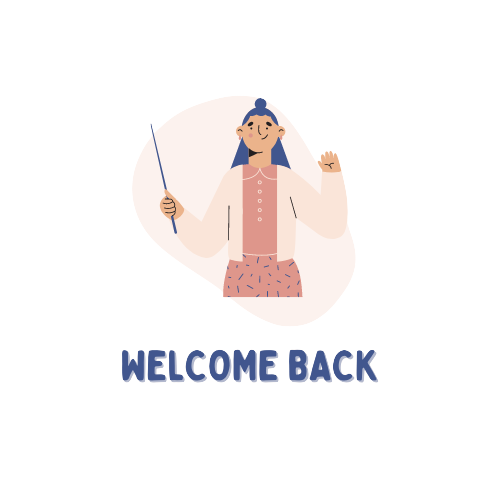
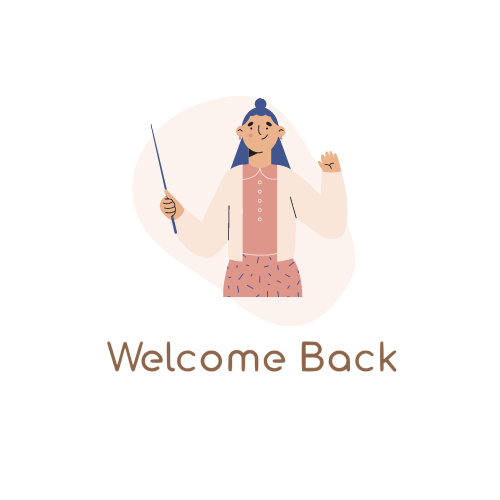
AddedRobotAndStyling

Changed region(s): [[0.21, 0.66, 0.81, 0.78]]

diff --git a/home/static/home/style.css b/home/static/home/style.css
@@ -2,13 +2,15 @@ li a {
   color: green;
 }
 body {
-  background: rgb(46, 141, 128);
+  /* background: rgb(46, 141, 128); */
+  background: #d0b49f;
 }
 
 #header {
   height: 100px;
   width: 100%;
-  background: rgb(5, 107, 208);
+  /* background: rgb(5, 107, 208); */
+  background: #d0b49f;
 }
 
 #footer {
@@ -16,7 +18,8 @@ body {
   bottom: 0;
   width: 100%;
   height: 40px; /* Height of the footer */
-  background: rgba(163, 190, 182, 0.833);
+  /* background: rgba(163, 190, 182, 0.833); */
+  background: #d0b49f;
 }
 
 #footer.comment {
@@ -27,7 +30,8 @@ body {
   background: rgba(44, 11, 128, 0.658);
 }
 .navbar {
-  background-color: rgb(11, 11, 11);
+  /* background-color: rgb(11, 11, 11); */
+  background-color: #523a28;
   position: relative;
   top: 0;
   width: 100%;
@@ -52,7 +56,8 @@ body {
 
 /* Active/current navbar link */
 .active {
-  background-color: rgb(46, 141, 128);
+  /* background-color: rgb(46, 141, 128); */
+  background-color: #d0b49f;
   color: rgb(255, 255, 255);
 }
 
@@ -87,7 +92,7 @@ body {
 .paul {
   font-size: 50px;
   font-family: Arial, sans-serif;
-  color: #333;
+  color: #4b2c2c;
   font-weight: bold;
   margin-top: 20px;
   align-items: center;
@@ -122,5 +127,27 @@ body {
   align-items: center;
   justify-content: center;
   /* padding: 2%; */
+}
 
+.box {
+  font-size: 50px;
+  font-family: Arial, sans-serif;
+  color: #333;
+  font-weight: bold;
+  margin-top: 400px;
+  align-items: center;
+}
+
+.centeringnomargin {
+  display: flex;
+  flex-direction: column;
+  align-items: center;
+  justify-content: center;
+  margin-top: 10px;
+  margin-bottom: -40px;
+}
+
+.white{
+  color:white;
+  /* background-color: red; */
 }

diff --git a/home/templates/home/courses.html b/home/templates/home/courses.html
@@ -5,10 +5,16 @@
 </head>
 <form action='/profile/course/' method="GET">
     {% csrf_token %}
-    <label for="search-input" class="somecss">Course Search:</label>
+    <!-- <label for="search-input" class="somecss">Course Search:</label> -->
+    <div class="centeringnomargin">
+
+        <img src="/static/home/images/Courses.png" 
+          width="400" 
+          height="250">
+      </div>
     <input type="text" class="form-control" id="search-input" name="search-input" placeholder="Search for courses..." required><br><br>
     <div class="row h-5 justify-content-center align-items-center">
-        <button class="btn btn-primary" type="submit">Search</button>
+        <button class="btn btn-primary" type="submit" style="background-color:#523A28" class="white">Search</button>
     </div>
 </form>
 {% if courses %}
@@ -34,7 +40,7 @@
             {% endfor %}
         </table>
         <div class="row h-5 justify-content-center align-items-center">
-            <button class="btn btn-primary" type="submit">Add Selected Courses</button>
+            <button class="btn btn-primary" type="submit" style="background-color:#523A28" class="white">Add Selected Courses</button>
         </div>
     </form>
 {% endif %}

diff --git a/home/templates/home/tutorsearch.html b/home/templates/home/tutorsearch.html
@@ -1,6 +1,12 @@
 {% extends "home/navbar.html" %} {% block page %}
 <form action="/tutorsearch" method="GET" class="containering">
-  <label for="search-input" class="somecss">Tutor Search:</label>
+  <!-- <label for="search-input" class="somecss">Tutor Search:</label> -->
+  <!-- <div class="centeringnomargin"> -->
+
+    <img src="/static/home/images/Search.png" 
+      width="400" 
+      height="200">
+  <!-- </div> -->
 
   <input
     type="text"
@@ -13,7 +19,7 @@
 
   <div class="row h-5 justify-content-center align-items-center">
     <!-- <div class="col-auto"> -->
-    <button class="btn btn-primary" type="submit">Search</button>
+    <button class="btn btn-primary" style="background-color:#523A28" type="submit">Search</button>
 
     <!-- </div> -->
   </div>

diff --git a/home/templates/home/editprofile.html b/home/templates/home/editprofile.html
@@ -48,10 +48,10 @@
           </div>
         </div>
         <input type="hidden" name="locations_to_remove" id="locations_to_remove">
-        <button type="submit" class="btn btn-primary" id="save-btn">
+        <button type="submit" class="btn btn-primary" id="save-btn" style="background-color:#523A28" class="white">
           Save
         </button>
-        <a href="{% url 'profile' %}" class="btn btn-secondary">Cancel</a>
+        <a href="{% url 'profile' %}" class="btn btn-secondary" style="background-color:#523A28" class="white">Cancel</a>
       </form>
     </div>
   </div>

diff --git a/home/templates/home/profilepage.html b/home/templates/home/profilepage.html
@@ -27,12 +27,12 @@
                 {{ course.subject }} {{ course.catalog_nbr }} {{ course }},
             {% endfor %}
             <a href='/profile/course/'>
-                <button>Select Courses</button>
+                <button style="background-color:#523A28" class="white">Select Courses</button>
             </a>
         </p>
     </div>
     <a href='/profile/edit_profile/'>
-        <button>Edit</button>
+        <button style="background-color:#523A28" class="white">Edit</button>
     </a>
     </div>
     {% endif %}

diff --git a/home/templates/home/requestIndex.html b/home/templates/home/requestIndex.html
@@ -2,17 +2,11 @@
 {% block page %}
 {% if request_list %}
 
-<div class="container">
+<div class="centeringnomargin">
 
-      <div class="col-md-6 offset-md-3">
-        <div class="my-5">
-          <h2
-            class="text-center mb-2"
-            style="font-weight: bold; color: rgb(0, 0, 0)"
-          >
-            Requests
-          </h2>
-    </div>
+  <img src="/static/home/images/Requests.png" 
+    width="400" 
+    height="250">
 </div>
 <table class="containering">
     <tr > 

diff --git a/home/templates/home/index.html b/home/templates/home/index.html
@@ -29,6 +29,15 @@
         {% endif %}
     {% endwith %}
 {% endif %}
+
+{% if not user.is_authenticated %}
+
+    <img src="/static/home/images/SmartGrades.png" 
+    width="575" 
+    height="450">
+{% endif %}
+
+
 </div>
 
 {% endblock %}
